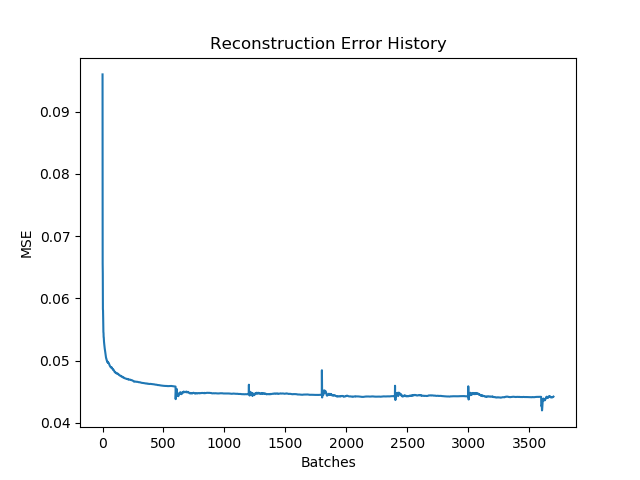
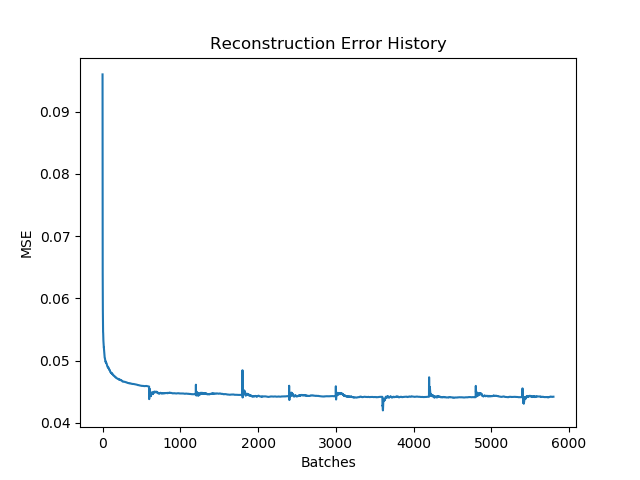
[visualization] intermediate progress figs module

diff --git a/writeProgressFigs.py b/writeProgressFigs.py
@@ -1,0 +1,64 @@
+#!/usr/bin/env python3
+# -*- coding: utf-8 -*-
+"""
+Brute-force parameter search for dictionary learning.
+See Demo.py for a simple example.
+This runs something like Demo.py for a large number of
+parameters.
+
+@author: Benjamin Cowen, September 25, 2018
+@contact: bc1947@nyu.edu, bencowen.com
+"""
+
+
+#######################################################
+# (0) Import modules.
+#######################################################
+import numpy as np
+import matplotlib.pyplot as plt
+
+def printProgressFigs(savePath, extension, lossHist, errHist, spstyHist):
+  """
+  Prints loss, reconstruction error, and sparsity history plots.
+  savePath  : a string with the path to the directory (including "/")
+  extension : a string such a ".png", ".pdf", etc.
+  other inputs are np.array objects containing 1D data vectors
+    to be plotted.
+  """
+
+  #######################################################
+  # Visualize loss, reconstruction error, and sparsity
+  #  histories.
+  #######################################################
+  x = np.asarray([i for i in range(0, len(lossHist))])
+  ################
+  ## loss history
+  plt.figure()
+  plt.plot(x, lossHist)
+  plt.xlabel("Batches")
+  plt.ylabel("Loss (averaged over samples)")
+  plt.title("Loss Function History")
+  plt.savefig(savePath + "lossHist" + extension)
+  plt.close()
+
+  ################################
+  ## reconstruction error history
+  plt.figure()
+  plt.plot(x, errHist)
+  plt.xlabel("Batches")
+  plt.ylabel("MSE")
+  plt.title("Reconstruction Error History")
+  plt.savefig(savePath + "reconErrHist" + extension)
+  plt.close()
+
+  ####################
+  ## sparsity history
+  plt.figure()
+  plt.plot(x, spstyHist)
+  plt.xlabel("Batches")
+  plt.ylabel("% zeros")
+  plt.title("Sparsity History")
+  plt.savefig(savePath + "sparsityHist" + extension)
+  plt.close()
+
+

diff --git a/README.md b/README.md
@@ -3,14 +3,14 @@
 * perform parameter search for each dataset so good dictionaries can be obtained repeatably
 * save dictionary object
 
-# Dictionary Learning
-This repository provides some basic experiments and tools for training a linear dictionary (e.g. vectorized image patches).
+# Sparse Dictionary Learning
+This repository provides some basic experiments and tools for training a linear dictionary (e.g. for vectors, including vectorized image patches).
 The training process yields a dictionary-- i.e. a matrix, whose rows are _dictionary atoms_-- which can be used along with a sparse code to represent a signal.
 This procedure is originally described in "Emergence of simple-cell receptive field properties by learning a sparse code for natural images", by Olshausen and Field [Nature, 381:607–609, 1996](https://www.nature.com/articles/381607a0).
 It is famously used in "Learning Fast Approximations of Sparse Coding" (Gregor and Lecun)
  and recently in "LSALSA: efficient sparse coding in single and multiple dictionary settings" ([Cowen, Saridena, Choromanska](https://arxiv.org/abs/1802.06875)).
 
-We train by minimizing <a href="https://www.codecogs.com/eqnedit.php?latex=\mathbf{F}" target="_blank"><img src="https://latex.codecogs.com/gif.latex?\mathbf{F}" title="\mathbf{F}" /></a>
+We train by minimizing<a href="https://www.codecogs.com/eqnedit.php?latex=F" target="_blank"><img src="https://latex.codecogs.com/gif.latex?F" title="F" /></a>
 w.r.t. <a href="https://www.codecogs.com/eqnedit.php?latex=\mathbf{A}" target="_blank"><img src="https://latex.codecogs.com/gif.latex?\mathbf{A}" title="\mathbf{A}" /></a>
 :
 
@@ -18,14 +18,11 @@ w.r.t. <a href="https://www.codecogs.com/eqnedit.php?latex=\mathbf{A}" target="_
 
 where
 <a href="https://www.codecogs.com/eqnedit.php?latex=\alpha&space;\geq&space;0" target="_blank"><img src="https://latex.codecogs.com/gif.latex?\alpha&space;\geq&space;0" title="\alpha \geq 0" /></a>
- is the L1 weight,
+ is a scalar parameter that balances sparsity with reconstruction error,
 <a href="https://www.codecogs.com/eqnedit.php?latex=\mathbf{A}" target="_blank"><img src="https://latex.codecogs.com/gif.latex?\mathbf{A}" title="\mathbf{A}" /></a>
  is the dictionary,
 <a href="https://www.codecogs.com/eqnedit.php?latex=\mathbf{y}(p)" target="_blank"><img src="https://latex.codecogs.com/gif.latex?\mathbf{y}(p)" title="\mathbf{y}(p)" /></a>
-is the
-<a href="https://www.codecogs.com/eqnedit.php?latex=p^{th}" target="_blank"><img src="https://latex.codecogs.com/gif.latex?p^{th}" title="p^{th}" /></a>
-<a href="https://www.codecogs.com/eqnedit.php?latex=y(p)" target="_blank"><img src="https://latex.codecogs.com/gif.latex?y(p)" title="y(p)" /></a>
- signal, and
+is the p-th training data sample, and
 <a href="https://www.codecogs.com/eqnedit.php?latex=\mathbf{x}(p)" target="_blank"><img src="https://latex.codecogs.com/gif.latex?\mathbf{x}(p)" title="\mathbf{x}(p)" /></a>
 is its corresponding sparse code.
 
